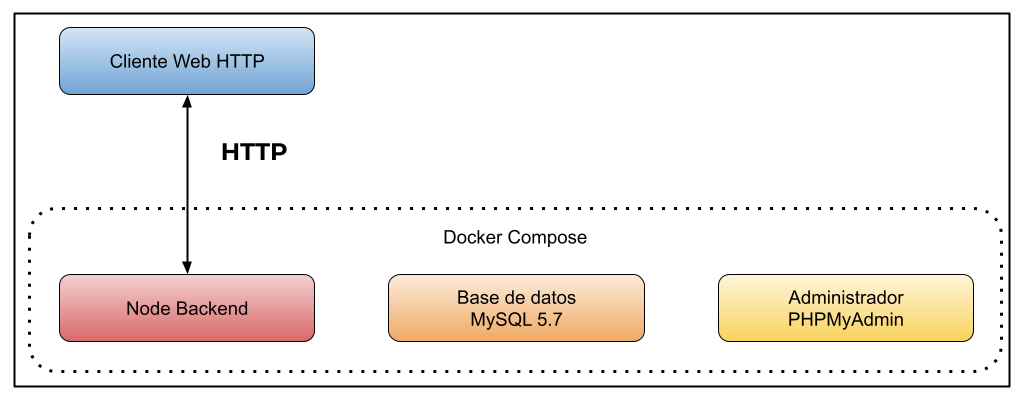
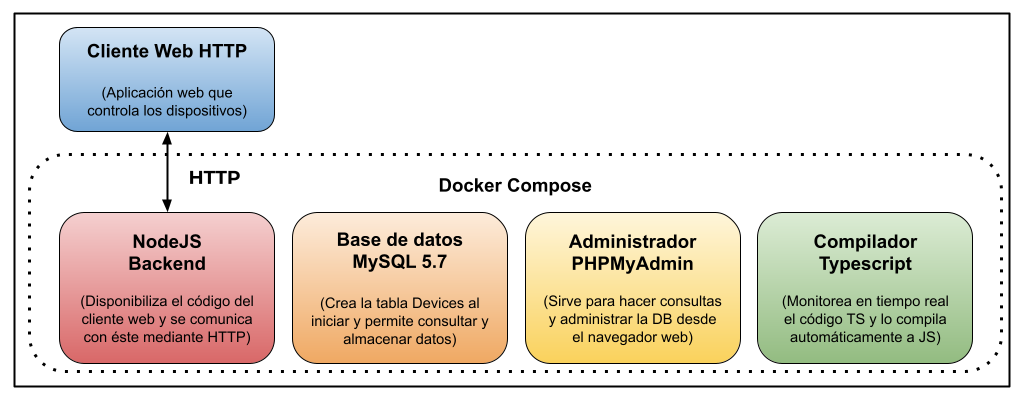
Adds documentation for TS and changelog data

diff --git a/README.md b/README.md
@@ -7,9 +7,9 @@ Web App Full Stack Base
 
 *Ayudaría mucho si apoyaras este proyecto con una ⭐ en Github!*
 
-Este proyecto es una aplicación web fullstack que se ejecuta sobre el ecosistema `Docker`. Está compuesta por un servicio en `NodeJS` que te permite ejecutar código en backend y al mismo tiempo disponibilizar un `cliente web` para interactar con el servicio. Además tiene una `base de datos` MySQL que puede interactuar con el backend para guardar y consultar datos, y de manera adicional trae un `administrador` de base de datos para poder administrar la base en caso que lo necesites.
+Este proyecto es una aplicación web fullstack que se ejecuta sobre el ecosistema `Docker`. Está compuesta por un compilador de `TypeScript` que te permite utilizar este superset de JavaScript para poder programar un `cliente web`. También tiene un servicio en `NodeJS` que te permite ejecutar código en backend y al mismo tiempo disponibilizar el código del cliente web para interactar con el servicio. Además tiene una `base de datos` MySQL que puede interactuar con el backend para guardar y consultar datos, y de manera adicional trae un `administrador` de base de datos para poder administrar la base en caso que lo necesites.
 
-La aplicación IoT de base que viene con este proyecto se encarga de crear una tabla llamada `Devices` en la base de datos, y la idea es que vos puedas desarrollar el código de backend y frontend que te permita controlar desde el navegador el estado de los devices - *como pueden ser luces, TVs, ventiladores, persianas, enchufes y otros* - de un hogar inteligente y almacenar los estados en la base de datos. 
+La aplicación IoT de base que viene con este proyecto se encarga de crear una tabla llamada `Devices` en la base de datos, y la idea es que vos puedas desarrollar el código de backend y frontend que te permita controlar desde el navegador el estado de los devices de un hogar inteligente - *como pueden ser luces, TVs, ventiladores, persianas, enchufes y otros* - y almacenar los estados de cada uno en la base de datos. 
 
 Realizando estas tareas vas a a tener una aplicación fullstack IoT del mundo real que utiliza tecnologías actuales en la que un backend es capaz de interactuar con una DB para cumplir con las peticiones de control que se le mandan desde el cliente web.
 
@@ -45,13 +45,13 @@ git clone https://github.com/USER/app-fullstack-base.git
 
 ### Ejecutar la aplicación
 
-Para ejecutar la aplicación tenes que correr el comando `docker-compose up` desde la raíz del proyecto. Este comando va a descargar las imágenes de Docker de node, de la base datos y del admin de la DB, y luego ponerlas en funcionamiento. 
+Para ejecutar la aplicación tenes que correr el comando `docker-compose up` desde la raíz del proyecto. Este comando va a descargar las imágenes de Docker de node, de typescript, de la base datos y del admin de la DB, y luego ponerlas en funcionamiento. 
 
 Para acceder al cliente web ingresa a a la URL [http://localhost:8000/](http://localhost:8000/) y para acceder al admin de la DB accedé a [localhost:8001/](http://localhost:8001/). 
 
 Si pudiste acceder al cliente web y al administrador significa que la aplicación se encuentra corriendo bien. 
 
-> Si te aparece un error la primera vez que corres la app, deteńe el proceso y volvé a iniciarla. Es debido a que el backend espera que la base esté creada al iniciar, y en la primera ejecución puede no alcanzar a crearse, a partir de la segunda vez ya se soluciona el problema.
+> Si te aparece un error la primera vez que corres la app, deteńe el proceso y volvé a iniciarla. Esto es debido a que el backend espera que la DB esté creada al iniciar, y en la primera ejecución puede no alcanzar a crearse. A partir de la segunda vez el problema queda solucionado.
 
 </details>
 
@@ -111,6 +111,10 @@ La base de datos se comunica con el servicio de NodeJS y permite almacenar el es
 
 Para esta aplicación se usa **PHPMyAdmin**, que es un administrador de base de datos web muy utilizado y que podés utilizar en caso que quieras realizar operaciones con la base, como crear tablas, modificar columnas, hacer consultas y otras cosas más.
 
+### El compilador de TypeScript
+
+**TypeScript** es un lenguaje de programación libre y de código abierto desarrollado y mantenido por Microsoft. Es un superconjunto de JavaScript, que esencialmente añade tipos estáticos y objetos basados en clases. Para esta aplicación se usa un compilador de TypeScript basado en una imagen de [Harmish](https://hub.docker.com/r/harmish) en Dockerhub, y está configurado para monitorear en tiempo real los cambios que se realizan sobre el directorio **src/frontend/ts** y automáticamente generar código compilado a JavaScript en el directorio  **src/frontend/js**. Los mensajes del compilador aparecen automáticamente en la terminal al ejecutar el comando **docker-compose up**.
+
 ### Ejecución de servicios
 
 Los servicios de la aplicación se ejecutan sobre **contenedores de Docker**, así se pueden desplegar de igual manera en diferentes plataformas. Los detalles sobre cómo funcionan los servicios los podés ver directamente en el archivo **docker-compose.yml**.
@@ -132,14 +136,14 @@ En la siguiente ilustración podés ver cómo está organizado el proyecto para 
 │   │   ├── package.json        # configuracion de proyecto NodeJS
 │   │   └── package-lock.json   # configuracion de proyecto NodeJS
 │   └── frontend                # directorio para el frontend de la aplicacion
-│       ├── css                 # donde alojar los estilos de la aplicación
-│       ├── images              # donde se deben cargar las imágenes a mostrar en la app web
-│       ├── js                  # codigo javascript que se va a desarrollar
+│       ├── js                  # codigo javascript que se compila automáticamente
+│       ├── static              # donde alojan archivos de estilos, imagenes, fuentes, etc.
+│       ├── ts                  # donde se encuentra el codigo TypeScript a desarrollar
 │       └── index.html          # archivo principal del cliente HTML
 ├── docker-compose.yml          # archivo donde se aloja la configuracion completa
 ├── README.md                   # este archivo
 ├── CHANGELOG.md                # archivo para guardar los cambios del proyecto
-├── LICENSE.md                  # licencia
+├── LICENSE.md                  # licencia del proyecto
 ```
 
 > No olvides ir poniendo tus cambios en el archivo `CHANGELOG.md` a medida que avanzas en el proyecto.
@@ -205,6 +209,7 @@ En esta sección podés ver las tecnologías más importantes utilizadas.
 * [MySQL](https://www.mysql.com/) - Base de datos para consultar y almacenar datos.
 * [PHPMyAdmin](https://www.phpmyadmin.net/) - Administrador web de base de datos.
 * [Material Design](https://material.io/design) - Bibliotecas de estilo responsive para aplicaciones web.
+* [TypeScript](https://www.typescriptlang.org/) - Superset de JavaScript tipado y con clases.
 
 </details>
 

diff --git a/CHANGELOG.md b/CHANGELOG.md
@@ -5,6 +5,14 @@ All notable changes to this project will be documented in this file.
 The format is based on [Keep a Changelog](http://keepachangelog.com/) and this project adheres to [Semantic Versioning](http://semver.org/).
 
 
+## 2.2.0
+
+* Project modification
+    * Adds TypeScript compiler service to Docker Compose
+    * Reestructures frontend folder for TypeScript
+    * Adds new info to README accordingly
+    * Changes project architecture image
+
 ## 2.1.0
 
 * Project modification
